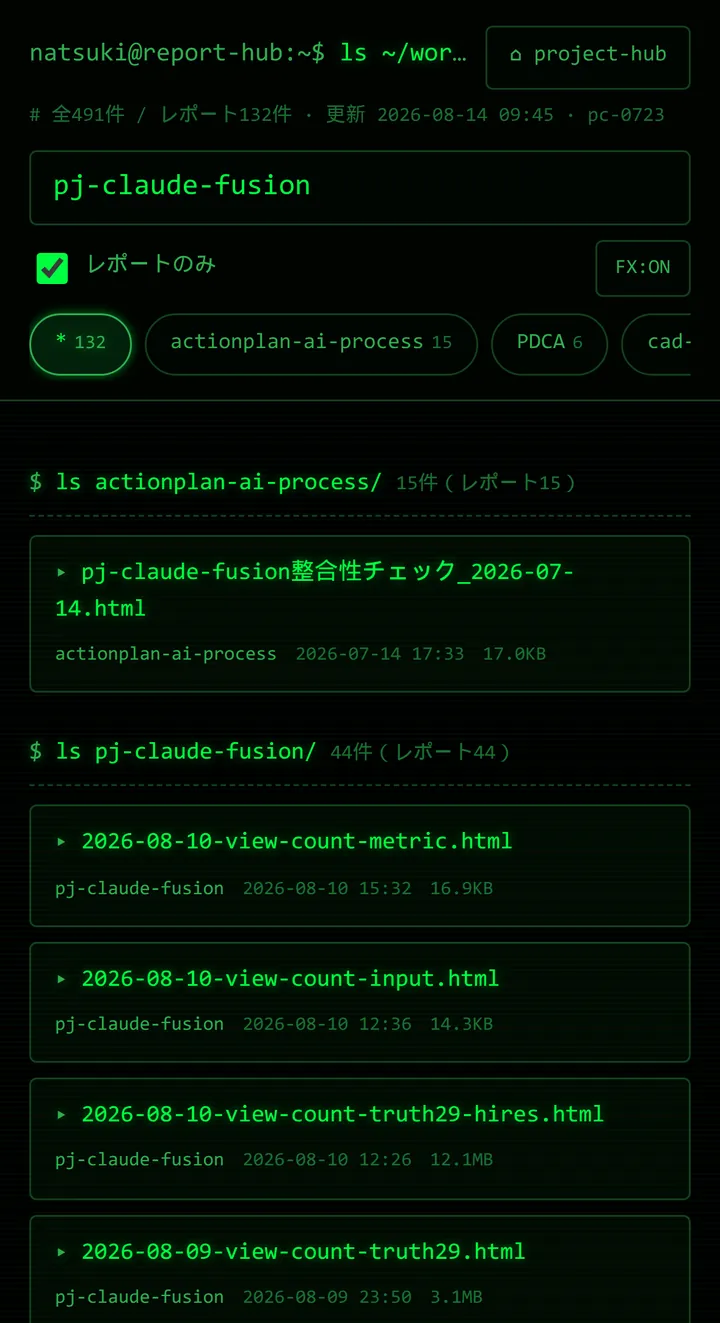
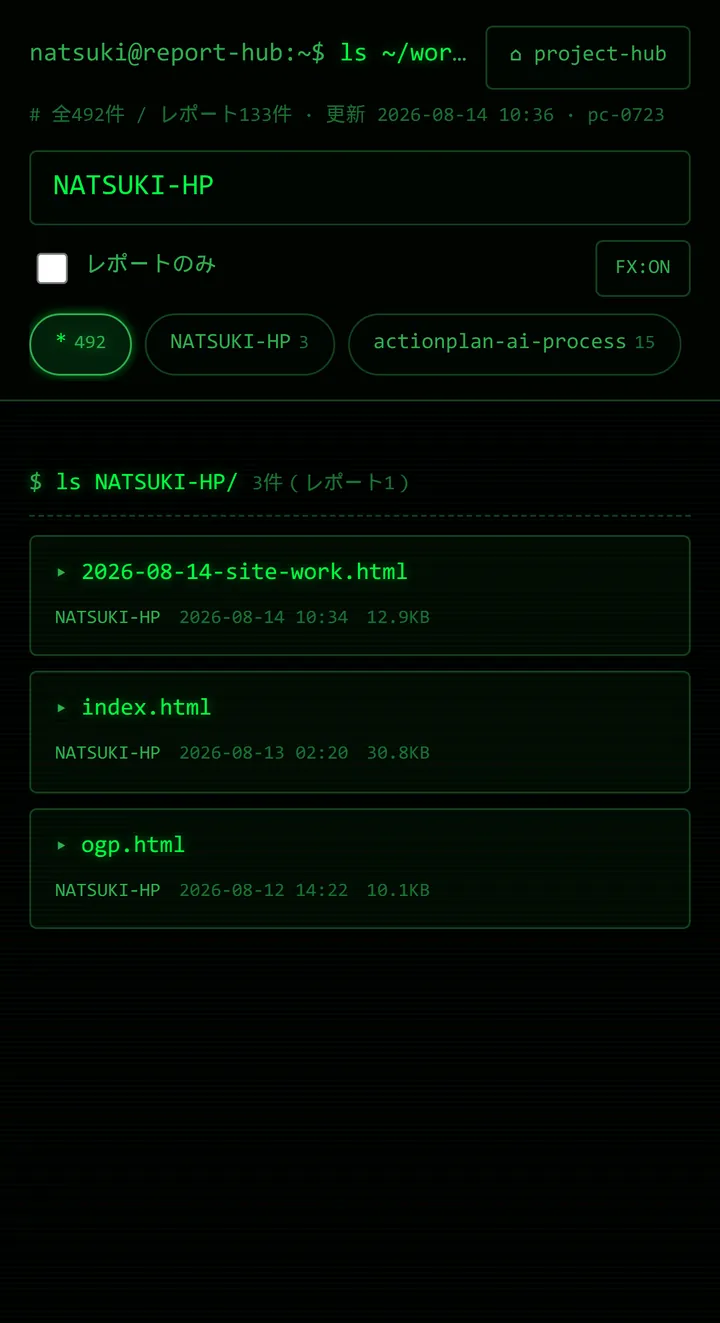
fix: 端末の左右が切れるのを直し、レポートを差し替え、CCのアイコンを入れる
## 端末の左右が帯状に切れていた

マスクを端末の箱ぴったりに掛けていたため、側面ボタン（-3px）と影が
左右で切り落とされ、角の丸みも縦に断たれていた。1512pxで拡大して確認。
箱を端末より左右に広く取り（300px→360px）、端末を中央に置いて直した。

## レポートを差し替え

開くレポートを、グラフと色のあるものに変えた。内容は今日の作業そのもの。
  reports/2026-08-14-site-work.html（新規・12.9KB）
  コミットの時刻分布 / 脆弱性 90→0 の内訳 / 画像資産456KBの内訳

グラフは JS ではなくインラインSVGで描いた。メールのプレビューでは
JSが動かずグラフが消えることがあるため（html-report 規約）。
外部参照ゼロ・レスポンシブは、ネットワークを遮断した状態で撮って確認済み。

一覧の画面も、このレポートが先頭に出るよう NATSUKI-HP で絞った状態に撮り直した
（業務の資料名が並ぶ素の一覧は出さない方針は変えていない）。

## Claude Code のアイコン

本人が用意した icons8「Clawd sparkles」を入れた。Anthropic の公式マークでは
ないため、その旨と出典をコンポーネントのコメントと画面下に明記している。
icons8 の無料ライセンスは出典の表示を求めるため。

Claude-Session: https://claude.ai/code/session_016TyXFNQAR54uNbzRUsDLsu

diff --git a/reports/2026-08-14-site-work.html b/reports/2026-08-14-site-work.html
@@ -1,0 +1,268 @@
+<!DOCTYPE html>
+<html lang="ja">
+<head>
+<meta charset="UTF-8">
+<meta name="viewport" content="width=device-width, initial-scale=1">
+<title>サイト改修の1日 — 2026-08-14</title>
+<style>
+html, body { overflow-x: hidden; }
+body {
+  font-family: system-ui, -apple-system, "Hiragino Kaku Gothic ProN",
+               "Yu Gothic", Meiryo, sans-serif;
+  font-size: 1rem; line-height: 1.7; margin: 0;
+  color: #16202b; background: #f6f8fb;
+}
+.wrap { max-width: 900px; margin: 0 auto; padding: 1.5rem; }
+.pg { display: inline-block; max-width: 100%; }
+a, code { overflow-wrap: anywhere; }
+img, svg { max-width: 100%; height: auto; }
+.tablewrap { overflow-x: auto; overscroll-behavior-x: contain; }
+table { border-collapse: collapse; width: 100%; font-size: .92rem; }
+th, td { padding: .55rem .6rem; border-bottom: 1px solid #e2e8f0; text-align: left; }
+th { background: #eef2f7; font-weight: 600; white-space: nowrap; }
+td.num, th.num { text-align: right; font-variant-numeric: tabular-nums; }
+
+header { background: linear-gradient(135deg, #0f2740 0%, #1d4e6e 55%, #2b7a78 100%); color: #fff; }
+header .wrap { padding-top: 2.4rem; padding-bottom: 2.4rem; }
+h1 { font-size: 1.7rem; line-height: 1.35; margin: 0 0 .5rem; letter-spacing: -.01em; }
+.sub { margin: 0; color: #b9d4e6; font-size: .9rem; }
+
+h2 {
+  font-size: 1.15rem; margin: 2.6rem 0 .9rem; padding-left: .6rem;
+  border-left: 4px solid #2b7a78; line-height: 1.4;
+}
+p { margin: .8rem 0; }
+.lead { background: #fff; border-left: 4px solid #1d4e6e; border-radius: 0 8px 8px 0;
+        padding: 1rem 1.1rem; box-shadow: 0 1px 2px rgba(16,32,48,.06); }
+.lead p { margin: .5rem 0; }
+
+.cards { display: flex; flex-wrap: wrap; gap: .8rem; margin: 1.2rem 0; }
+.card { flex: 1 1 190px; background: #fff; border: 1px solid #e2e8f0; border-radius: 10px;
+        padding: .9rem 1rem; box-shadow: 0 1px 2px rgba(16,32,48,.05); }
+.card .v { font-size: 1.7rem; font-weight: 700; line-height: 1.2; letter-spacing: -.02em; }
+.card .k { font-size: .8rem; color: #5b6b7c; }
+.c1 .v { color: #1d4e6e; } .c2 .v { color: #2b7a78; }
+.c3 .v { color: #b4552a; } .c4 .v { color: #6b4f9e; }
+
+.panel { background: #fff; border: 1px solid #e2e8f0; border-radius: 10px;
+         padding: 1rem; box-shadow: 0 1px 2px rgba(16,32,48,.05); margin: 1rem 0; }
+.cap { font-size: .82rem; color: #5b6b7c; margin: .5rem 0 0; }
+.legend { display: flex; flex-wrap: wrap; gap: .4rem 1rem; font-size: .82rem;
+          color: #3d4d5c; margin: .6rem 0 0; }
+.legend i { display: inline-block; width: .7rem; height: .7rem; border-radius: 2px;
+            margin-right: .35rem; vertical-align: -1px; }
+ul { padding-left: 1.15rem; }
+li { margin: .35rem 0; }
+footer { color: #5b6b7c; font-size: .82rem; border-top: 1px solid #e2e8f0; margin-top: 2.5rem; }
+@media (max-width: 768px) {
+  .wrap { padding: 1rem; }
+  body { font-size: .95rem; }
+  h1 { font-size: 1.35rem; }
+  .card { flex: 1 1 140px; }
+  .card .v { font-size: 1.45rem; }
+}
+</style>
+</head>
+<body>
+
+<header>
+  <div class="wrap">
+    <h1>サイト改修の1日</h1>
+    <p class="sub">NATSUKI-HP ／ 2026-08-14 ／ CC</p>
+  </div>
+</header>
+
+<div class="wrap">
+
+<div class="lead">
+  <p><b>個人サイトに、開発基盤の実機画面を見せる仕掛けを入れた1日の記録。</b>
+  あわせて、放置されていた依存の脆弱性 <b>90件を0件</b> にし、雛形のままだった公開URLを直した。</p>
+  <p>コミット15件、50ファイル、2,148行の追加。追加した画像資産は10点で456KB。</p>
+</div>
+
+<div class="cards">
+  <div class="card c1"><div class="v">15</div><div class="k">コミット</div></div>
+  <div class="card c2"><div class="v">90 → 0</div><div class="k">依存の脆弱性</div></div>
+  <div class="card c3"><div class="v">456<span style="font-size:.6em"> KB</span></div><div class="k">追加した画像（10点）</div></div>
+  <div class="card c4"><div class="v">2,148</div><div class="k">追加行数</div></div>
+</div>
+
+<h2>1. コミットは2つの山に分かれた</h2>
+
+<p>深夜帯に前日の積み残しを片付け、朝から本題に入っている。
+朝の5件はすべて「実機の画面を記事に載せる」ための作業。</p>
+
+<div class="panel">
+<svg viewBox="0 0 720 260" role="img" aria-label="時刻ごとのコミット数の棒グラフ。0時台10件、8時台1件、9時台3件、10時台1件">
+  <line x1="52" y1="200" x2="700" y2="200" stroke="#cbd5e1" stroke-width="1"/>
+  <line x1="52" y1="150" x2="700" y2="150" stroke="#eef2f7" stroke-width="1"/>
+  <line x1="52" y1="100" x2="700" y2="100" stroke="#eef2f7" stroke-width="1"/>
+  <line x1="52" y1="50"  x2="700" y2="50"  stroke="#eef2f7" stroke-width="1"/>
+  <text x="44" y="204" font-size="12" fill="#5b6b7c" text-anchor="end">0</text>
+  <text x="44" y="154" font-size="12" fill="#5b6b7c" text-anchor="end">5</text>
+  <text x="44" y="104" font-size="12" fill="#5b6b7c" text-anchor="end">10</text>
+
+  <rect x="70"  y="100" width="70" height="100" rx="3" fill="#1d4e6e"/>
+  <text x="105" y="92" font-size="14" font-weight="700" fill="#1d4e6e" text-anchor="middle">10</text>
+  <rect x="430" y="190" width="70" height="10"  rx="3" fill="#2b7a78"/>
+  <text x="465" y="182" font-size="14" font-weight="700" fill="#2b7a78" text-anchor="middle">1</text>
+  <rect x="520" y="170" width="70" height="30"  rx="3" fill="#2b7a78"/>
+  <text x="555" y="162" font-size="14" font-weight="700" fill="#2b7a78" text-anchor="middle">3</text>
+  <rect x="610" y="190" width="70" height="10"  rx="3" fill="#2b7a78"/>
+  <text x="645" y="182" font-size="14" font-weight="700" fill="#2b7a78" text-anchor="middle">1</text>
+
+  <text x="105" y="220" font-size="12" fill="#3d4d5c" text-anchor="middle">0時台</text>
+  <text x="285" y="220" font-size="12" fill="#94a3b8" text-anchor="middle">1〜7時台</text>
+  <text x="465" y="220" font-size="12" fill="#3d4d5c" text-anchor="middle">8時台</text>
+  <text x="555" y="220" font-size="12" fill="#3d4d5c" text-anchor="middle">9時台</text>
+  <text x="645" y="220" font-size="12" fill="#3d4d5c" text-anchor="middle">10時台</text>
+  <text x="285" y="196" font-size="12" fill="#cbd5e1" text-anchor="middle">—</text>
+  <text x="52" y="248" font-size="12" fill="#5b6b7c">単位：コミット数</text>
+</svg>
+<p class="cap">深夜の10件は前日の残り <span class="pg">（図の差し替え・記録の保存・URL修正・依存整理）</span>。</p>
+</div>
+
+<h2>2. 脆弱性は「押していなかった」だけだった</h2>
+
+<p>GitHub が90件の警告を出していたが、これは<b>押す前の状態に対する数字</b>だった。
+Next.js を16へ上げた変更を9セッション分プッシュしていなかったため、
+古いロックファイルが評価され続けていた。</p>
+
+<p>反映後に実際に残っていたのは6件。うち4件は<b>どこからも読み込んでいない依存</b>が原因で、
+削除するだけで消えた。破壊的アップグレードは不要だった。</p>
+
+<div class="panel">
+<svg viewBox="0 0 720 210" role="img" aria-label="脆弱性の推移。押す前90件、反映後6件、対応後0件">
+  <text x="20" y="34" font-size="13" fill="#3d4d5c">押す前の集計</text>
+  <rect x="20" y="44" width="660" height="26" rx="4" fill="#e2e8f0"/>
+  <rect x="20" y="44" width="22"  height="26" rx="4" fill="#8c1d18"/>
+  <rect x="42" y="44" width="293" height="26" fill="#c2410c"/>
+  <rect x="335" y="44" width="279" height="26" fill="#d99a2b"/>
+  <rect x="614" y="44" width="66" height="26" rx="4" fill="#94a3b8"/>
+  <text x="690" y="63" font-size="13" font-weight="700" fill="#16202b" text-anchor="start" opacity="0">90</text>
+  <text x="20" y="92" font-size="12" fill="#5b6b7c">合計 90件</text>
+
+  <text x="20" y="126" font-size="13" fill="#3d4d5c">Next.js 16 を反映した直後</text>
+  <rect x="20" y="136" width="660" height="26" rx="4" fill="#e2e8f0"/>
+  <rect x="20" y="136" width="30" height="26" rx="4" fill="#c2410c"/>
+  <rect x="50" y="136" width="14" height="26" fill="#d99a2b"/>
+  <text x="76" y="155" font-size="13" font-weight="700" fill="#16202b">6件</text>
+  <text x="20" y="184" font-size="12" fill="#5b6b7c">未使用の依存2つを削除 → <tspan font-weight="700" fill="#15803d">0件</tspan></text>
+</svg>
+<div class="legend">
+  <span><i style="background:#8c1d18"></i>critical 3</span>
+  <span><i style="background:#c2410c"></i>high 40</span>
+  <span><i style="background:#d99a2b"></i>moderate 38</span>
+  <span><i style="background:#94a3b8"></i>low 9</span>
+</div>
+<p class="cap">帯の長さは件数の比率。反映後の6件は high 2 ／ moderate 4。</p>
+</div>
+
+<div class="tablewrap">
+<table>
+<thead><tr><th>パッケージ</th><th>実態</th><th>対応</th></tr></thead>
+<tbody>
+<tr><td>react-syntax-highlighter</td><td>import されていない</td><td>削除</td></tr>
+<tr><td>dompurify</td><td>import されていない</td><td>削除</td></tr>
+<tr><td>brace-expansion / js-yaml</td><td>間接依存</td><td>非破壊の更新</td></tr>
+</tbody>
+</table>
+</div>
+
+<h2>3. 追加した画像は456KB</h2>
+
+<p>実機のスクリーンショットを重なり分だけ畳んで1本にしたもの <span class="pg">（strip）</span> が最大。
+残りは主要画面6枚と、固定で出す上下のバー、メニュー。すべて WebP。</p>
+
+<div class="panel">
+<svg viewBox="0 0 720 330" role="img" aria-label="画像資産のサイズ内訳の横棒グラフ">
+  <g font-size="12" fill="#3d4d5c">
+    <text x="0" y="24">strip</text>
+    <text x="0" y="54">reporthub</text>
+    <text x="0" y="84">report</text>
+    <text x="0" y="114">today</text>
+    <text x="0" y="144">project</text>
+    <text x="0" y="174">usage</text>
+    <text x="0" y="204">mail</text>
+    <text x="0" y="234">drawer</text>
+    <text x="0" y="264">top</text>
+    <text x="0" y="294">bottom</text>
+  </g>
+  <g>
+    <rect x="86" y="12" width="560" height="16" rx="3" fill="#1d4e6e"/>
+    <rect x="86" y="42" width="231" height="16" rx="3" fill="#2b7a78"/>
+    <rect x="86" y="72" width="198" height="16" rx="3" fill="#2b7a78"/>
+    <rect x="86" y="102" width="196" height="16" rx="3" fill="#2b7a78"/>
+    <rect x="86" y="132" width="171" height="16" rx="3" fill="#2b7a78"/>
+    <rect x="86" y="162" width="135" height="16" rx="3" fill="#2b7a78"/>
+    <rect x="86" y="192" width="123" height="16" rx="3" fill="#2b7a78"/>
+    <rect x="86" y="222" width="92"  height="16" rx="3" fill="#6b4f9e"/>
+    <rect x="86" y="252" width="14"  height="16" rx="3" fill="#94a3b8"/>
+    <rect x="86" y="282" width="13"  height="16" rx="3" fill="#94a3b8"/>
+  </g>
+  <g font-size="12" fill="#16202b" font-weight="600">
+    <text x="654" y="25">148 KB</text>
+    <text x="325" y="55">61</text>
+    <text x="292" y="85">52</text>
+    <text x="290" y="115">52</text>
+    <text x="265" y="145">45</text>
+    <text x="229" y="175">36</text>
+    <text x="217" y="205">32</text>
+    <text x="186" y="235">24</text>
+    <text x="108" y="265">4</text>
+    <text x="107" y="295">3</text>
+  </g>
+  <text x="0" y="322" font-size="12" fill="#5b6b7c">合計 456 KB（10点・WebP 品質82）</text>
+</svg>
+<div class="legend">
+  <span><i style="background:#1d4e6e"></i>つないだ長い画面</span>
+  <span><i style="background:#2b7a78"></i>主要画面6枚</span>
+  <span><i style="background:#6b4f9e"></i>メニュー</span>
+  <span><i style="background:#94a3b8"></i>固定の上下バー</span>
+</div>
+</div>
+
+<h2>4. 確かめたこと</h2>
+
+<ul>
+  <li>ビルド36ページの生成、lint とも通過</li>
+  <li>1512×950 <span class="pg">（16インチ相当）</span>と 390×844 <span class="pg">（スマホ）</span>の実寸で表示を確認</li>
+  <li>ダークテーマで面と線が反転することを確認</li>
+  <li><code>npm audit</code> が 0 件になることを確認</li>
+  <li>本番の再デプロイ後、トップと記事ページが 200 を返すことを確認</li>
+</ul>
+
+<h2>5. 公開にあたって伏せたもの</h2>
+
+<p>実機の画面をそのまま載せるため、特定につながる箇所は<b>画像の側で</b>消している。
+件名などは書き換えるとその時点で嘘になるため、読めなくするだけにした。</p>
+
+<div class="tablewrap">
+<table>
+<thead><tr><th>対象</th><th>処理</th><th>理由</th></tr></thead>
+<tbody>
+<tr><td>接続先のホスト名</td><td>別名に置換</td><td>閉域網の名前</td></tr>
+<tr><td>社名由来のリポジトリ名</td><td>別名に置換</td><td>社名</td></tr>
+<tr><td>図番</td><td>伏字に置換</td><td>図番</td></tr>
+<tr><td>メールの差出人・件名</td><td>ぼかし</td><td>会社の情報。書き換えない</td></tr>
+</tbody>
+</table>
+</div>
+
+<h2>6. 残っていること</h2>
+
+<ul>
+  <li>Claude Code の公式マークが未入手。いまは文字組みで置いている</li>
+  <li>GitHub 側の警告表示は再スキャン待ち <span class="pg">（1件ずつ自動で閉じている）</span></li>
+  <li>画像は表示幅に対して余裕を持たせてあるため、拡大すると細かい文字が読める</li>
+</ul>
+
+<footer>
+  <div style="padding:1rem 0">
+    このレポートは1ファイル完結。外部への読み込みはゼロ。
+  </div>
+</footer>
+
+</div>
+</body>
+</html>

diff --git a/app/components/tools-used.tsx b/app/components/tools-used.tsx
@@ -2,11 +2,12 @@
  * この基盤を何で作って、何で外から届けているかを並べる。
  * 内容は ~/work/project-hub/README.md と記事本文から起こした（推測を入れない）。
  *
- * **Claude Code のロゴについて**
- * Anthropic の公式マークは手元に無く、記憶で似せて描くと別物になるため、
- * ここでは文字組みで置いている。公式のSVGを
- *   public/image/logos/claude-code.svg
- * に置いて、下の Wordmark を <Image> に差し替えれば入れ替わる。
+ * **アイコンについて**
+ * 本人が用意した icons8 の「Clawd sparkles」を使っている
+ * （原本は public/image/logos/claude-code.svg。SVGはここに直に写してある）。
+ * Anthropic の公式マークではなく第三者の作ったアイコン。
+ * **icons8 の無料ライセンスは icons8 への表示を求める**ため、下に出典を出している。
+ * 公式マークが手に入ったら、このアイコンごと差し替えてよい。
  *
  * 接続の話は「何を使っているか」までにとどめ、
  * ホスト名・ポート・認証の作りは書かない（記事本文も同じ方針）。
@@ -31,10 +32,36 @@ const TOOLS = [
   },
 ]
 
+/** icons8「Clawd sparkles」。色は原本のまま（朱 #d77757・青 #0091ff） */
+function ClaudeMark() {
+  return (
+    <svg viewBox="0 0 48 48" width="28" height="28" aria-hidden className="shrink-0">
+      <rect width="36" height="24" x="6" y="18" fill="#d77757" />
+      <rect width="3" height="9" x="9" y="39" fill="#d77757" />
+      <rect width="3" height="9" x="15" y="39" fill="#d77757" />
+      <rect width="3" height="9" x="30" y="39" fill="#d77757" />
+      <rect width="3" height="9" x="36" y="39" fill="#d77757" />
+      <rect width="7.5" height="6" y="33" fill="#d77757" />
+      <rect width="7.5" height="6" x="40.5" y="33" fill="#d77757" />
+      <rect width="3" height="6" x="12" y="24" />
+      <rect width="3" height="6" x="33" y="24" />
+      <rect width="3" height="7" x="39" y="4" fill="#0091ff" />
+      <rect width="3" height="7" x="39" y="4" fill="#0091ff" transform="rotate(90 40.5 7.5)" />
+      <rect width="3" height="13" x="21" fill="#0091ff" />
+      <rect width="3" height="13" x="21" fill="#0091ff" transform="rotate(90 22.5 6.5)" />
+      <rect width="3" height="3" x="31" y="12" fill="#0091ff" />
+      <rect width="7" height="7" x="19" y="3" fill="#0091ff" />
+    </svg>
+  )
+}
+
 function Wordmark() {
   return (
-    <span className="inline-flex items-baseline gap-[0.4em] font-mono text-[13px] font-semibold uppercase tracking-[0.22em] text-primary">
-      Claude Code
+    <span className="inline-flex items-center gap-2.5">
+      <ClaudeMark />
+      <span className="font-mono text-[13px] font-semibold uppercase tracking-[0.22em] text-primary">
+        Claude Code
+      </span>
     </span>
   )
 }
@@ -61,6 +88,10 @@ export function ToolsUsed() {
           </li>
         ))}
       </ul>
+      {/* icons8 の無料ライセンスは出典の表示を求める */}
+      <figcaption className="mx-auto mt-4 max-w-[640px] font-mono text-[10px] tracking-[0.08em] text-muted-foreground">
+        アイコン: Clawd sparkles by icons8
+      </figcaption>
     </figure>
   )
 }

diff --git a/app/components/work-hub-tour.tsx b/app/components/work-hub-tour.tsx
@@ -57,13 +57,13 @@ const STEPS = [
     src: 'reporthub',
     label: 'report-hub',
     title: 'レポート閲覧へ移る',
-    body: '進捗とは別系統のサーバー。~/work のHTMLレポートを集めて一覧にする。ここでは1プロジェクトで絞っている。',
+    body: '進捗とは別系統のサーバー。~/work を走査してHTMLレポートを集める。ここは1プロジェクトで絞った状態。',
   },
   {
     src: 'report',
     label: 'レポート',
     title: 'レポートを開く',
-    body: '1ファイル完結。外部への読み込みがゼロなので、そのまま人にも渡せる。',
+    body: 'グラフも本文も1ファイルに収める。外部への読み込みがゼロなので、そのままメールにも添付できる。',
   },
 ]
 
@@ -132,16 +132,21 @@ export function WorkHubTour() {
       */}
       <div ref={rootRef} className="relative" style={{ height: `${STEPS.length * 70 + 30}vh` }}>
         <div className="sticky top-0 flex h-[100svh] items-center overflow-hidden">
-          <div className="grid w-full grid-cols-1 items-center gap-8 md:grid-cols-[300px_1fr] md:gap-12">
+          <div className="grid w-full grid-cols-1 items-center gap-8 md:grid-cols-[360px_1fr] md:gap-10">
             {/*
               端末。下を切って大きく見せる。
               切り口は mask で抜いて、断ち落としに見えないようにする。
             */}
+            {/*
+              端末の箱は、端末そのものより左右に広く取る。
+              マスクは箱にかかるため、ぴったりだと側面ボタン（-3px）と影が
+              帯状に切り落とされる（1512pxで実測して発覚）。
+            */}
             <div
               data-stage
-              className="tour-stage relative mx-auto h-[46svh] w-[224px] md:mx-0 md:h-[62svh] md:w-[300px]"
+              className="tour-stage relative mx-auto h-[46svh] w-[284px] pt-2 md:mx-0 md:h-[62svh] md:w-[360px]"
             >
-              <div className="tour-device absolute inset-x-0 top-0">
+              <div className="tour-device absolute left-1/2 top-2 w-[224px] -translate-x-1/2 md:w-[300px]">
                 <div className="relative">
                   <span className="absolute -left-[3px] top-[16%] h-[4%] w-[3px] rounded-l-sm bg-foreground/30" />
                   <span className="absolute -left-[3px] top-[24%] h-[7%] w-[3px] rounded-l-sm bg-foreground/30" />
